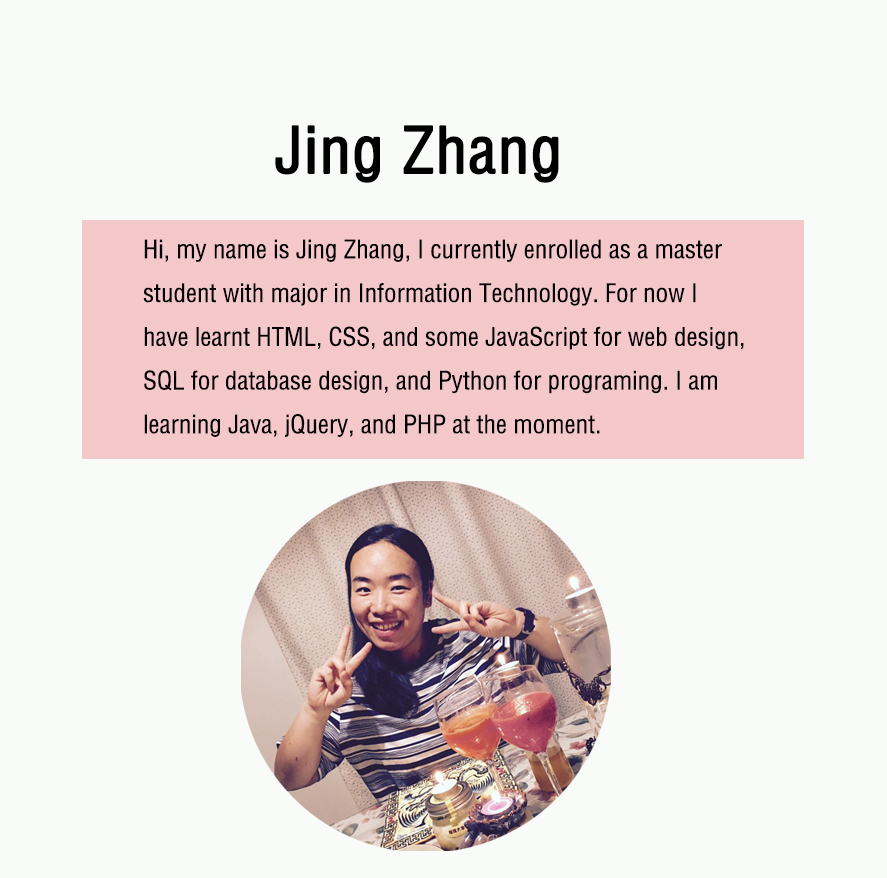
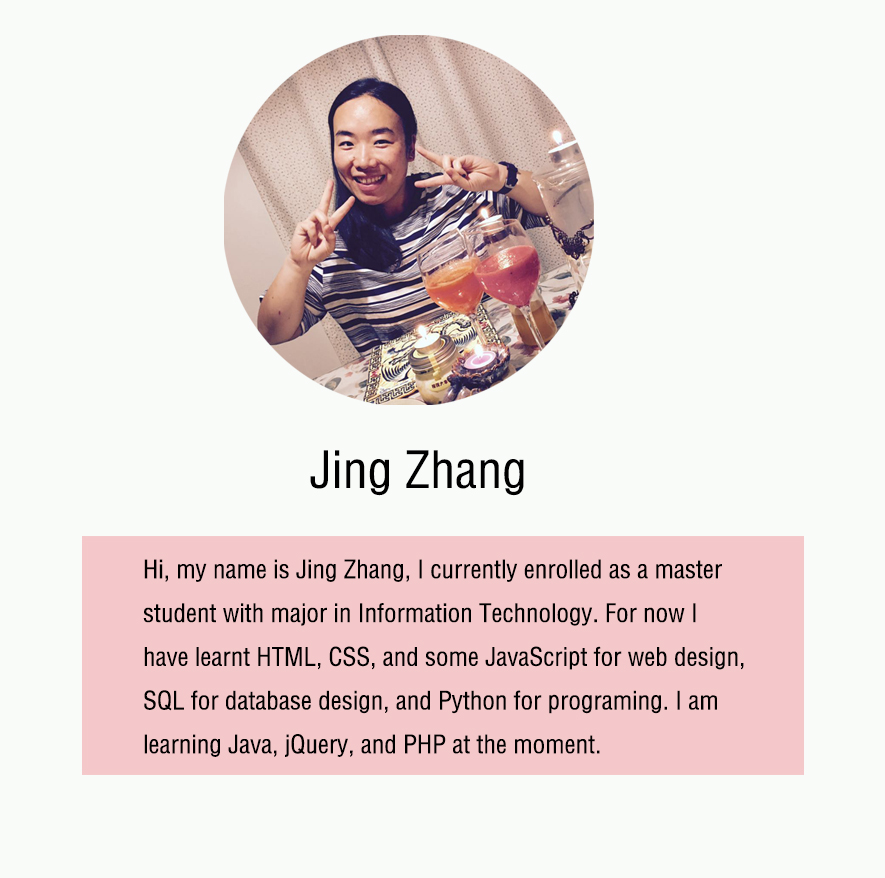
no message

diff --git a/css/main.css b/css/main.css
@@ -352,7 +352,7 @@
 
     .photo>img{
         width:100%;
-        max-height:35em;    
+        height:35em;    
     }
 
     .diary {
@@ -1124,27 +1124,6 @@ and (orientation: portrait) {
         border-bottom: 2px solid #01b6c6;
     }
     
-    #line-for-timeline:after {
-        content:"";
-        display: inline-block;
-        height: 0.5em;
-        vertical-align: middle;
-        width: 100%;
-        margin-right: -100%;
-        margin-left: 0.75;
-        border-top: 2px solid #01b6c6;
-    }
-    
-    #line-for-timeline:before {
-        content:"";
-        display: inline-block;
-        height: 0.5em;
-        vertical-align: middle;
-        width: 100%;
-        margin-right: 0.75em;
-        margin-left: -100%;
-        border-top: 2px solid #01b6c6;
-    }
 	
 }
 

diff --git a/design.php b/design.php
@@ -30,13 +30,14 @@
         <div class="nav-bar">
             <div class="container">               
                 <div class="top-nav nav" id="myTopnav">
+                    
                     <a class="navbar-brand" href="index.php"><img src="img/LOGO.png" alt="Traval Diary logo"></a>
-                    <a class="left" href="explore.php"><p>EXPLORE</p></a>
-                    <a class="left" href="mytrip.php"><p>MY TRAVEL</p></a>
-                    <a class="left" href="index.php#app"><p>APP</p></a>
-                    <a class="left" href="about.php"><p>ABOUT US</p></a>                   
-                    <a class="right" href="#"><p>LANGUAGE</p></a>
-                        <!--<li class="right"><a href="#"><span class="glyphicon glyphicon-list"></span></a> -->
+                    
+                    <a class="left " href="explore.php"><p class="lang" key="explore">EXPLORE</p></a>
+                    <a class="left " href="mytrip.php"><p class="lang" key="mytravel">MY TRAVEL</p></a>
+                    <a class="left "  href="index.php#app"><p class="lang" key="app">APP</p></a>
+                    <a class="left "  href="about.php"><p class="lang" key="about">ABOUT US</p></a>                   
+                    <a class="right translate" id="cn" href="#"><p class="lang" key="chinese">LANGUAGE</p></a>
                         
                         <!--If user has not loged in-->
                     
@@ -44,12 +45,12 @@
                             session_start();
                             if(!$_SESSION['auth']){
                         ?>                               
-                            <a class="right" href="#" onclick="document.getElementById('userlogin').style.display='block'"><p>LOGIN</p></a>                       
+                            <a class="right" href="#" onclick="document.getElementById('userlogin').style.display='block'"><p class="lang" key="login">LOGIN</p></a>                       
                         <!--If user has not loged in-->
                         <?php
                             }else if($_SESSION['auth']){
                         ?>                                      
-                            <a class="right" href="logout.php"><p>LOGOUT</p></a>                                                                                 
+                            <a class="right" href="logout.php"><p class="lang" key="logout">LOGOUT</p></a>                                                                                 
                         <?php
                             }
                         ?>                                               
@@ -104,10 +105,10 @@
         <form class="design-form" action="upload.php" method="post" enctype="multipart/form-data">
             <div id="step1" class="container green">
                 <div class="design-outside">
-                    <h3 class="tcenter">1. Choose Location</h3>
+                    <h3 class="tcenter lang" key="location">1. Choose Location</h3>
                     <div class="design-inside center">
 
-                        <div class="step-instruct"><p class="tcenter">Please chick you current location from the Google Map</p></div>
+                        <div class="step-instruct"><p class="tcenter lang" key="map">Please chick you current location from the Google Map</p></div>
                         <div id="map" class="design-area"></div>
                         <!--map api-->
                         <script async defer src="https://maps.googleapis.com/maps/api/js?key=AIzaSyAM4uETuyFU5KzjRyn1-aZYy-xnH6jJwzg&callback=myMap" type="text/javascript"></script>
@@ -127,10 +128,10 @@
             
             <div id="step2" class="container white">
                 <div class="design-outside">
-                    <h3 class="tcenter">2. Upload Your Pictures</h3>
+                    <h3 class="tcenter lang" key="upload">2. Upload Your Pictures</h3>
                     <div class="design-inside center">
 
-                        <div class="step-instruct"><p class="tcenter">Please choose your photograph from your mobile or computer</p></div>
+                        <div class="step-instruct"><p class="tcenter lang" key="choose">Please choose your photograph from your mobile or computer</p></div>
 
 
                         <div class="design-area">
@@ -151,13 +152,13 @@
         <!--Here is the third display container-->
             <div id="step3" class="container green">
                 <div class="design-outside">
-                    <h3 class="tcenter">3. My Blog Post</h3>
+                    <h3 class="tcenter lang" key="blog">3. My Blog Post</h3>
                     <div class="design-inside center">
                         <div class="design-area textarea center">
-                            <textarea class="center textarea-small" rows="1" cols="60" name="title"placeholder="Write your title here." required></textarea>
+                            <textarea class="center textarea-small" rows="1" cols="60" name="title" placeholder="Write your title here." required></textarea>
                             <br>
                             <textarea class="center textarea-large" rows="11" cols="60" name="story" placeholder="Write in your journal here." required></textarea>
-                            <p class="tcenter"><button class="btn" type="submit">Done</button></p>
+                            <p class="tcenter"><button class="btn lang" key="done" type="submit">Done</button></p>
                         </div>
 
                     </div>
@@ -179,6 +180,55 @@
                 &copy; Copyright 2017
         </div>
     </div>
+        
+        
+    <!--Here starts to build muli-language translation -->
+    <!-- Add language dictionary with English and Chinese(Simple)-->
+    <script type="text/javascript">
+        var arrLang = {
+            'en': {
+                'explore': 'EXPLORE',
+                'mytravel': 'MY TRAVEL',
+                'app': 'APP',
+                'about': 'ABOUT US',
+                'chinese': 'Language',
+                'login': 'LOGIN',
+                'logout': 'LOGOUT',
+                'location': '1. Choose Location',
+                'map': 'Please chick you current location from the Google Map',
+                'upload': '2. Upload Your Pictures',
+                'choose': 'Please choose your photograph from your mobile or computer',
+                'blog':'3. My Blog Post',
+                'done':'Done'
+            },
+            'cn': {
+                'explore': '探索',
+                'mytravel': '我的日记',
+                'app': '手机APP',
+                'about': '关于我们',
+                'chinese': '中文',
+                'login': '登入',
+                'logout': '登出',
+                'location': '1. 选择您的位置',
+                'map': '请点击谷哥地图确定您的位置',
+                'upload': '2. 上传您的图片',
+                'choose': '请从电脑或手机选择图片并上传',
+                'blog':'3. 我的日记',
+                'done':'完成'
+            }
+        };
+
+        //        Function to achieve lanague swith between English and Simple Chinese(Simple)-->
+        $(function () {
+            $('.translate').click(function () {
+                var lang = $(this).attr('id');
+
+                $('.lang').each(function (index, element) {
+                    $(this).text(arrLang[lang][$(this).attr('key')]);
+                });
+            });
+        });
+    </script>
 
     
 	</body>

diff --git a/index.php b/index.php
@@ -17,7 +17,8 @@
     <script src="https://ajax.googleapis.com/ajax/libs/jquery/3.2.0/jquery.min.js"></script>
     <!-- Link Bootstrap's js -->
     <script src="https://maxcdn.bootstrapcdn.com/bootstrap/3.3.7/js/bootstrap.min.js"></script>
-    <!-- Link Siper's js-->
+    
+    <!-- Link Swiper's js-->
     <script src="js/swiper.js"></script>
 	</head>
 
@@ -29,12 +30,11 @@
             <div class="container">               
                 <div class="top-nav nav" id="myTopnav">
                     <a class="navbar-brand" href="index.php"><img src="img/LOGO.png" alt="Traval Diary logo"></a>
-                    <a class="left" href="explore.php"><p>EXPLORE</p></a>
-                    <a class="left" href="mytrip.php"><p>MY TRAVEL</p></a>
-                    <a class="left" href="#app"><p>APP</p></a>
-                    <a class="left" href="about.php"><p>ABOUT US</p></a>                   
-                    <a class="right" href="#"><p>LANGUAGE</p></a>
-                        <!--<li class="right"><a href="#"><span class="glyphicon glyphicon-list"></span></a> -->
+                    <a class="left " href="explore.php"><p class="lang" key="explore">EXPLORE</p></a>
+                    <a class="left " href="mytrip.php"><p class="lang" key="mytravel">MY TRAVEL</p></a>
+                    <a class="left "  href="#app"><p class="lang" key="app">APP</p></a>
+                    <a class="left "  href="about.php"><p class="lang" key="about">ABOUT US</p></a>                   
+                    <a class="right translate" id="cn" href="#"><p class="lang" key="chinese">LANGUAGE</p></a>
                         
                         <!--If user has not loged in-->
                     
@@ -42,12 +42,12 @@
                             session_start();
                             if(!$_SESSION['auth']){
                         ?>                               
-                            <a class="right" href="#" onclick="document.getElementById('userlogin').style.display='block'"><p>LOGIN</p></a>                       
+                            <a class="right" href="#" onclick="document.getElementById('userlogin').style.display='block'"><p class="lang" key="login">LOGIN</p></a>                       
                         <!--If user has not loged in-->
                         <?php
                             }else if($_SESSION['auth']){
                         ?>                                      
-                            <a class="right" href="logout.php"><p>LOGOUT</p></a>                                                                                 
+                            <a class="right" href="logout.php"><p class="lang" key="logout">LOGOUT</p></a>                                                                                 
                         <?php
                             }
                         ?>                                               
@@ -115,7 +115,7 @@
                </div>
     <!--buttons-->
                 <div class="button center">
-                    <p class="tcenter"><a href="design.php" class="btn"><span id="start-icon" class="glyphicon glyphicon-edit"></span>Start Your Diary</a>
+                    <p class="tcenter"><a href="design.php" class="btn lang" key="start"><span id="start-icon" class="glyphicon glyphicon-edit"></span>Start Your Diary</a>
                     </p>
                 </div>
             </div>
@@ -185,12 +185,12 @@
             </div>
     
     <!--Here is the fourth display container-->
-        <div class="container white">
+            <div class="container white">
                 <p class="tcenter">
                     <img id="app" class="img-responsive center" src="img/advertisinglastpicture.png" alt="app promotion picture"/>
                 </p>
+            </div>
         </div>
-    </div>
     <!--Here is the footer-->
     
         <div class="footer">
@@ -222,6 +222,44 @@
             }
         }
         </script>
+        
+        <!--Here starts to build muli-language translation -->
+    <!-- Add language dictionary with English and Chinese(Simple)-->
+    <script type="text/javascript">
+        var arrLang = {
+            'en': {
+                'explore': 'EXPLORE',
+                'mytravel': 'MY TRAVEL',
+                'app': 'APP',
+                'about': 'ABOUT US',
+                'chinese': 'Language',
+                'login': 'LOGIN',
+                'logout': 'LOGOUT',
+                'start': 'Start Your Diary'
+            },
+            'cn': {
+                'explore': '探索',
+                'mytravel': '我的日记',
+                'app': '手机APP',
+                'about': '关于我们',
+                'chinese': '中文',
+                'login': '登入',
+                'logout': '登出',
+                'start': '开始记录'
+            }
+        };
+
+        // Function to achieve lanague swith between English and Simple Chinese(Simple)-->
+        $(function () {
+            $('.translate').click(function () {
+                var lang = $(this).attr('id');
+
+                $('.lang').each(function (index, element) {
+                    $(this).text(arrLang[lang][$(this).attr('key')]);
+                });
+            });
+        });
+    </script>
 
 	</body>
 </html>
